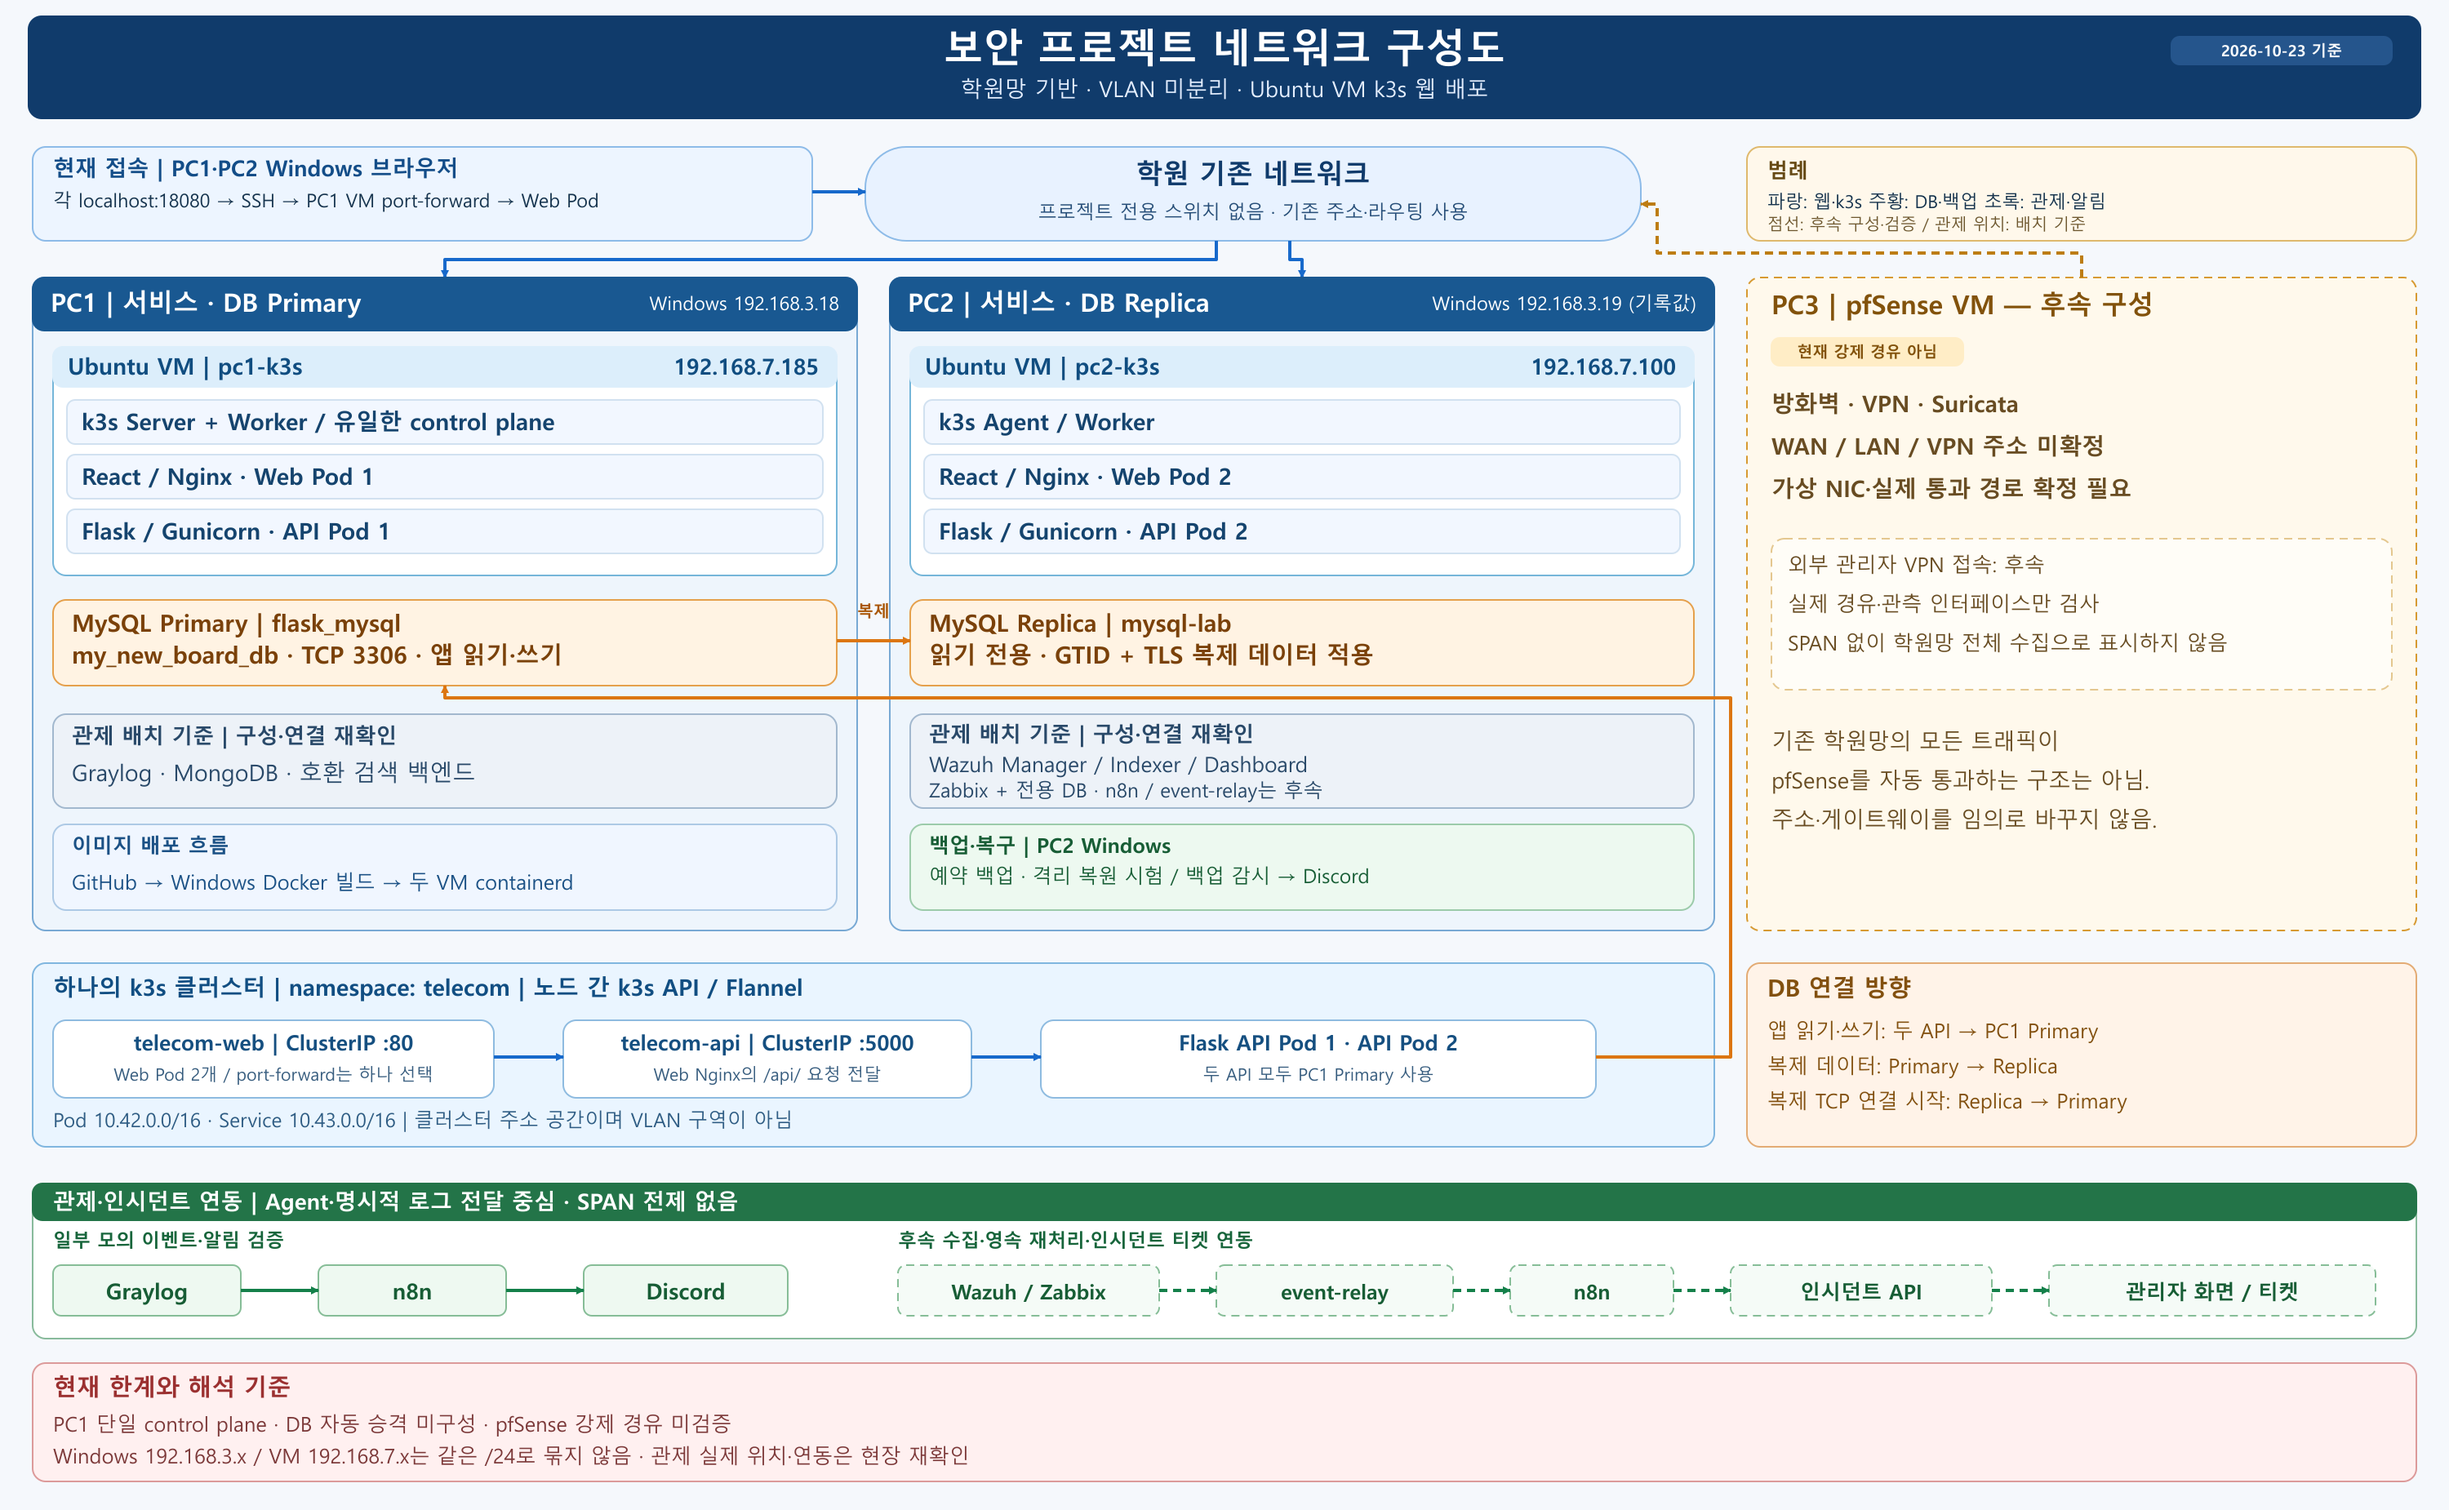
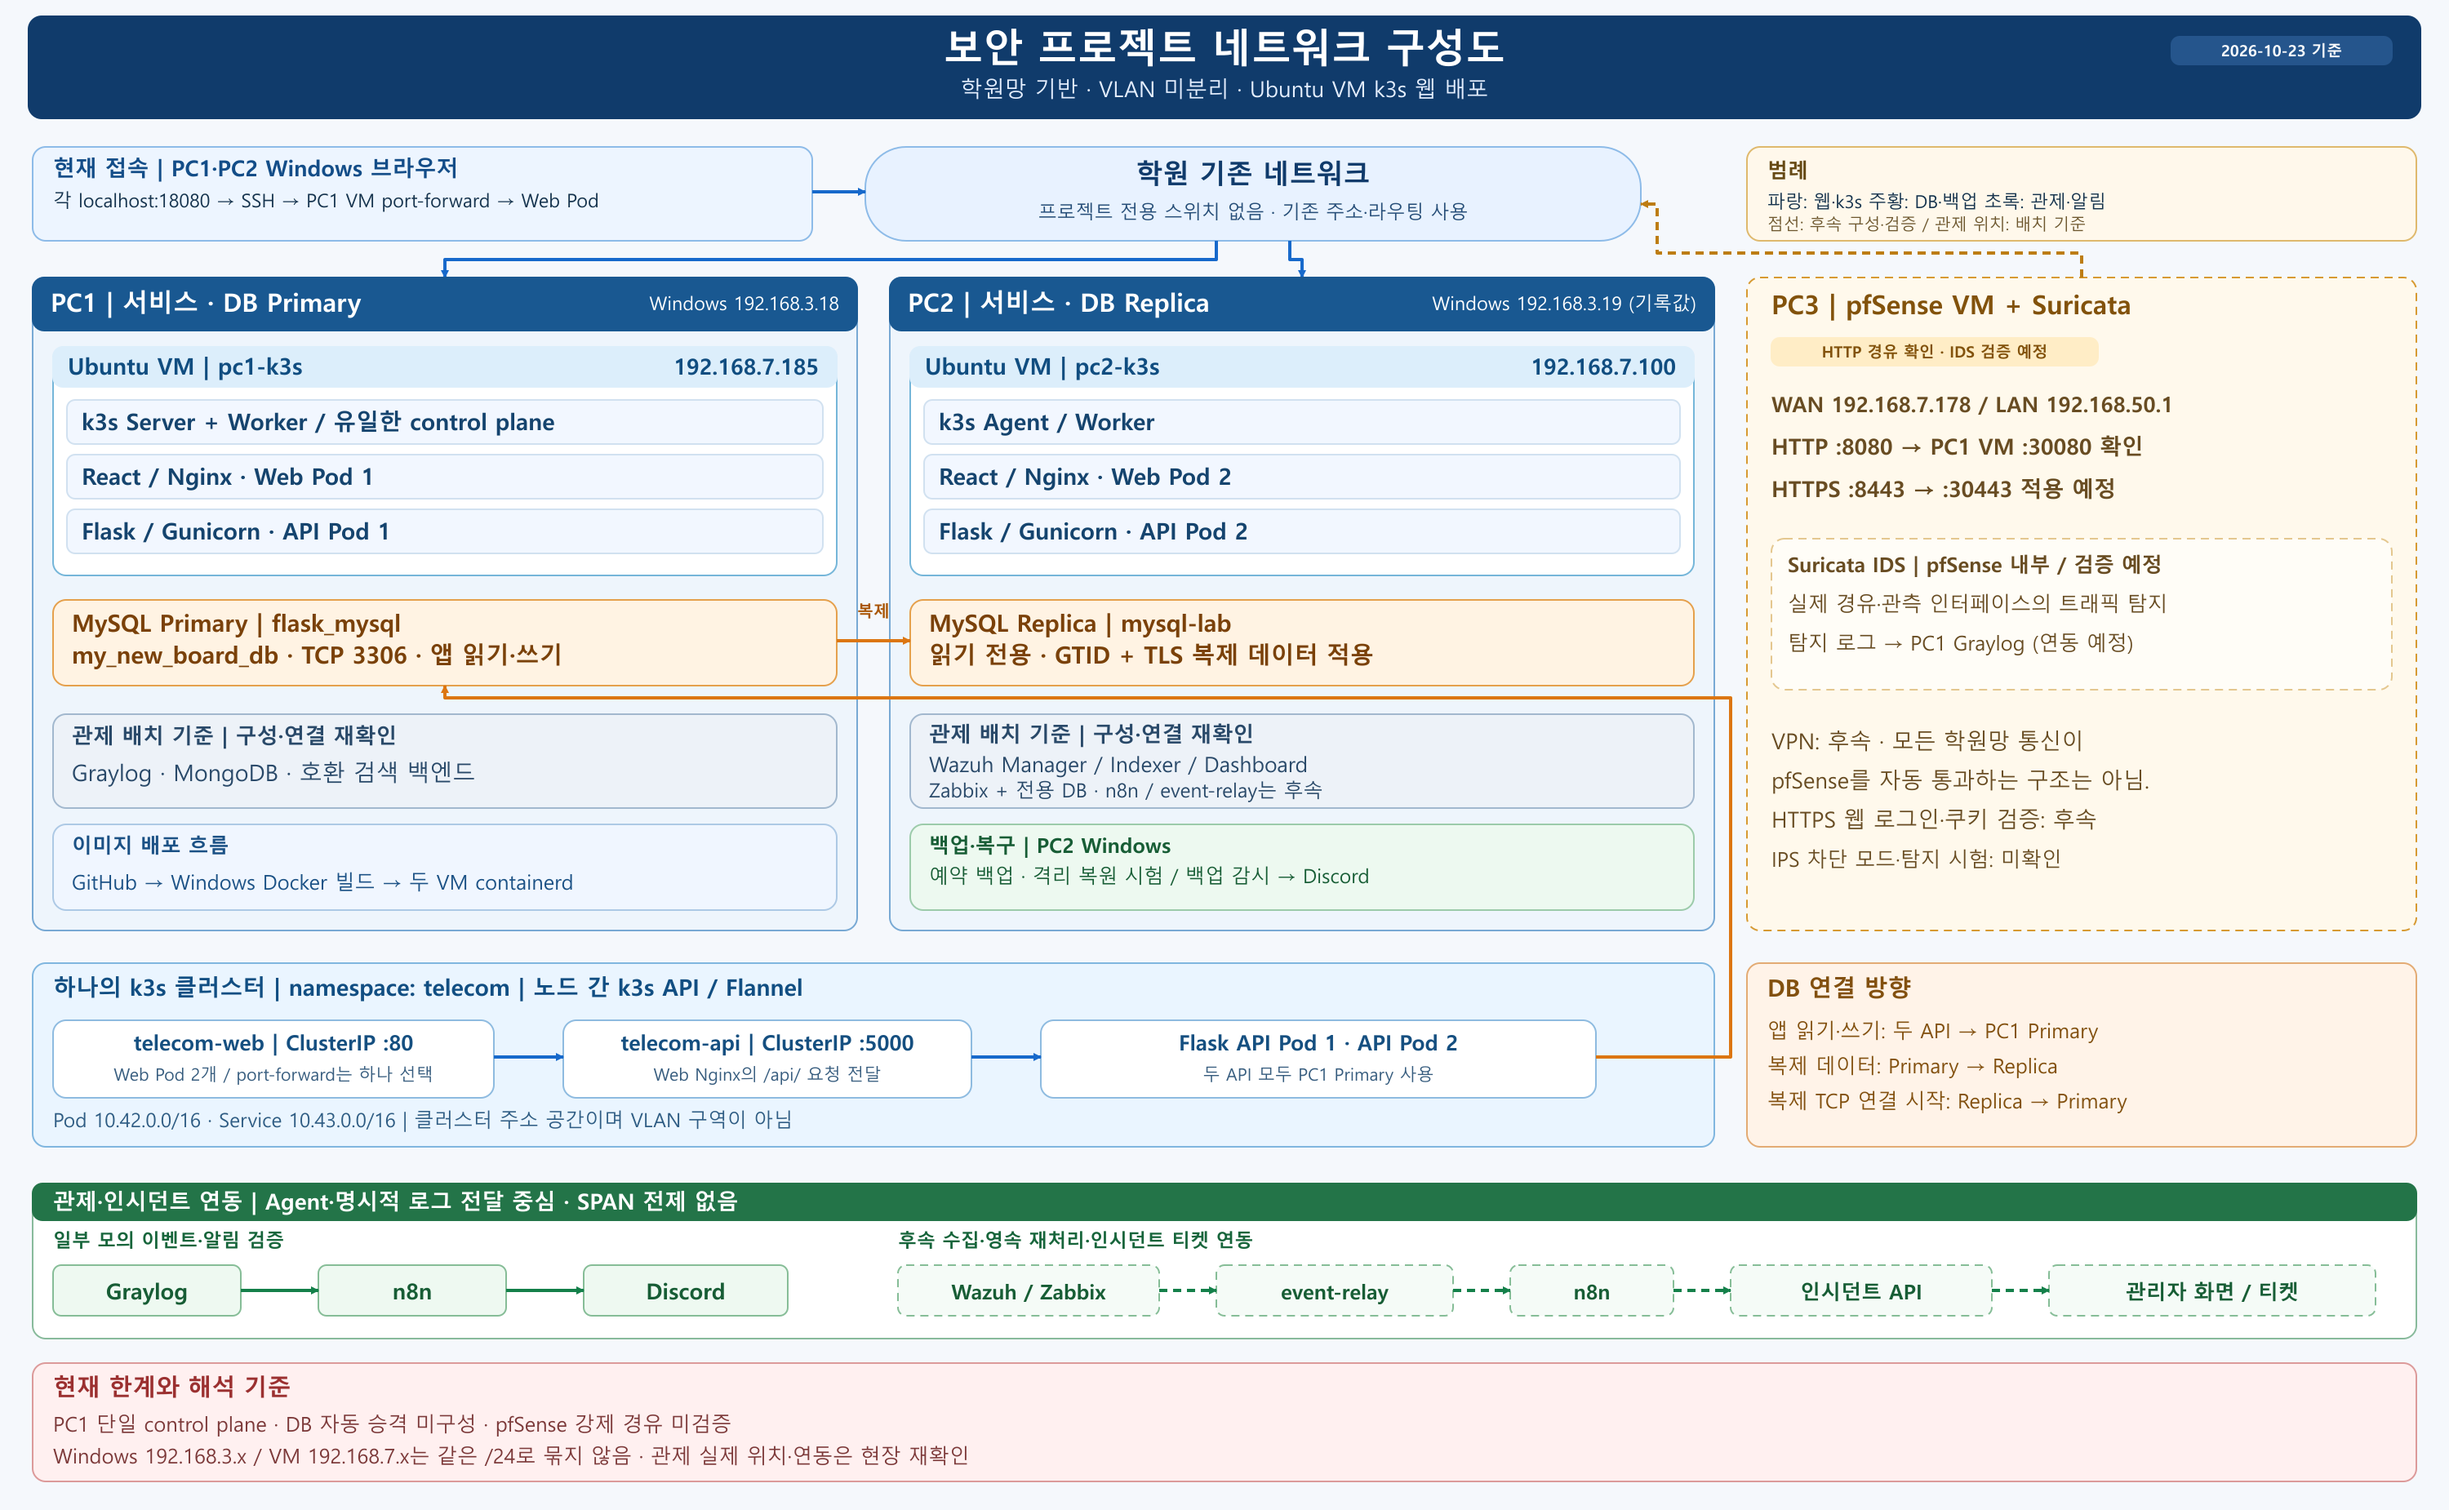
docs(network) : pfSense 내부 Suricata와 탐지 로그 경로 표시

diff --git a/network/diagrams/academy-k3s-20261023.md b/network/diagrams/academy-k3s-20261023.md
@@ -2,11 +2,13 @@
 
 2026-10-23 기준 / 프로젝트 전용 스위치 없음 / VLAN 미분리.
 
-![학원망·VM k3s 웹·Windows MySQL·후속 pfSense 구성](academy-k3s-20261023.png)
+![학원망·VM k3s 웹·Windows MySQL·pfSense와 Suricata 구성](academy-k3s-20261023.png)
 
 [PNG 다운로드](academy-k3s-20261023.png) · [편집 가능한 SVG](academy-k3s-20261023.svg)
 
 최종 그림은 한글·배치·연결 방향을 고정한 SVG와 그 원본에서 렌더링한 3000×1850 PNG다. 아래 Mermaid와 [주소](../address-plan.md)·[포트](../port-matrix.md)를 함께 확인한다. 점선은 후속 연결/검증이다. 관제의 물리 PC별 위치는 배치 기준이며 전체 연동 완료를 뜻하지 않는다.
+
+PC3 영역은 2026-10-23 제공된 작업 기록을 반영했다. HTTP `192.168.7.178:8080 → 192.168.7.185:30080` 경유는 확인됐고, HTTPS `8443 → 30443`은 계획이다. Suricata는 pfSense 내부 IDS로 별도 표시하며, 활성화·탐지 시험·Graylog 전달·IPS 차단은 완료로 간주하지 않는다.
 
 ## 수정 가능한 Mermaid 원본
 
@@ -73,8 +75,14 @@ flowchart TB
     N -. "후속: 토큰 / 인시던트 API" .-> AS
 
     REMOTE["외부 관리자 / VPN 후속"] -.-> FW
-    FW["PC3 pfSense VM / 후속<br/>방화벽·VPN·Suricata<br/>WAN·LAN·VPN 주소 미확정"] -. "통과 경로 확정 후 연결" .-> SCHOOL
-    FW -. "실제 관측 로그만 전달" .-> G
+    subgraph PC3["PC3 | pfSense VM + Suricata"]
+        FW["방화벽 / HTTP 경유 확인<br/>WAN 192.168.7.178 / LAN 192.168.50.1<br/>HTTPS 8443 → 30443 적용 예정"]
+        IDS["Suricata IDS / pfSense 내부<br/>활성화·탐지 시험·IPS 차단 미확인"]
+        FW -. "실제 경유·관측 인터페이스" .-> IDS
+    end
+    FW --- SCHOOL
+    FW -->|"HTTP 8080 → PC1 VM NodePort 30080"| WS
+    IDS -. "탐지 로그 / 연동 예정" .-> G
 
     GIT["GitHub의 커밋된 소스"] --> BUILD["Windows Docker 이미지 빌드"]
     BUILD -->|"같은 새 태그 / 두 VM containerd"| CP
@@ -83,7 +91,7 @@ flowchart TB
     classDef planned fill:#fff7e7,stroke:#d5891b,stroke-dasharray:5 4,color:#533a10
     classDef database fill:#fff1df,stroke:#df7c16,color:#5b3100
     classDef cluster fill:#eaf5ff,stroke:#1683c7,color:#103753
-    class FW,REMOTE,RELAY planned
+    class IDS,REMOTE,RELAY planned
     class P,R,BK database
     class CP,AG,PF,W1,W2,A1,A2,WS,AS,CIDR cluster
 ```
@@ -94,7 +102,7 @@ flowchart TB
 2. DB·관제는 Windows Docker 또는 별도 자원에 두고 Ubuntu 웹 VM 내부 Pod로 그리지 않는다.
 3. port-forward는 Web Pod 하나를 선택한다. Web 2개·API Service가 있어도 이 임시 진입점의 외부 자동 분산/자동 전환을 입증하지 않는다.
 4. 앱 읽기·쓰기는 PC1 Primary다. 복제 데이터는 PC1 → PC2, TCP 연결 시작은 PC2 → PC1이다. 승격은 수동 후속 작업과 백업 도구 보완이 필요하다.
-5. PC3 pfSense/VPN/Suricata는 후속이다. 모든 학원망 통신이 통과하거나 SPAN 없이 전체 트래픽이 관측된다고 표시하지 않는다.
-6. PC1 단일 control plane, PC2 로컬 백업, 외부 HTTPS/상시 진입점 미확정이 남은 한계다. 이 문서 변경은 현장 장비 설정 변경이 아니다.
+5. PC3 pfSense의 HTTP 경유는 제공 기록에서 확인했다. VPN, Suricata 탐지·로그 전달·IPS 차단은 후속 검증이며 모든 학원망 통신이 통과하거나 SPAN 없이 전체 트래픽이 관측된다고 표시하지 않는다.
+6. PC1 단일 control plane, PC2 로컬 백업, 외부 HTTPS·로그인 검증과 진입점 자동 전환 미구성이 남은 한계다. 이 문서 변경은 현장 장비 설정 변경이 아니다.
 
 [저장소 분석 및 검증 범위](../../docs/architecture/academy-network-20261023.md) · [통신 경로](../../docs/contracts/traffic-flow.md)
